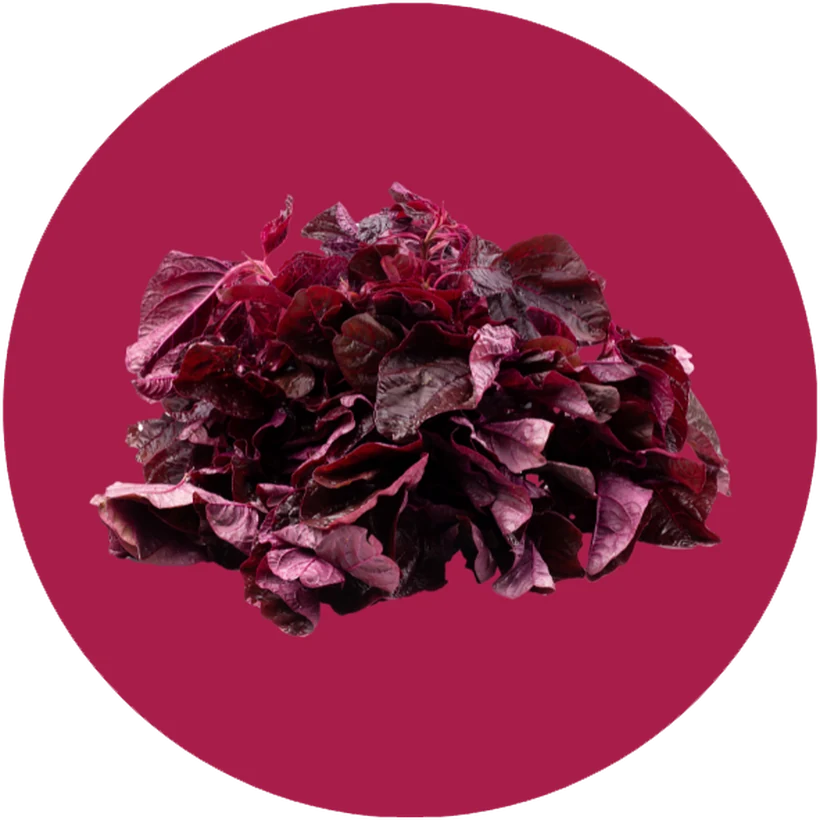
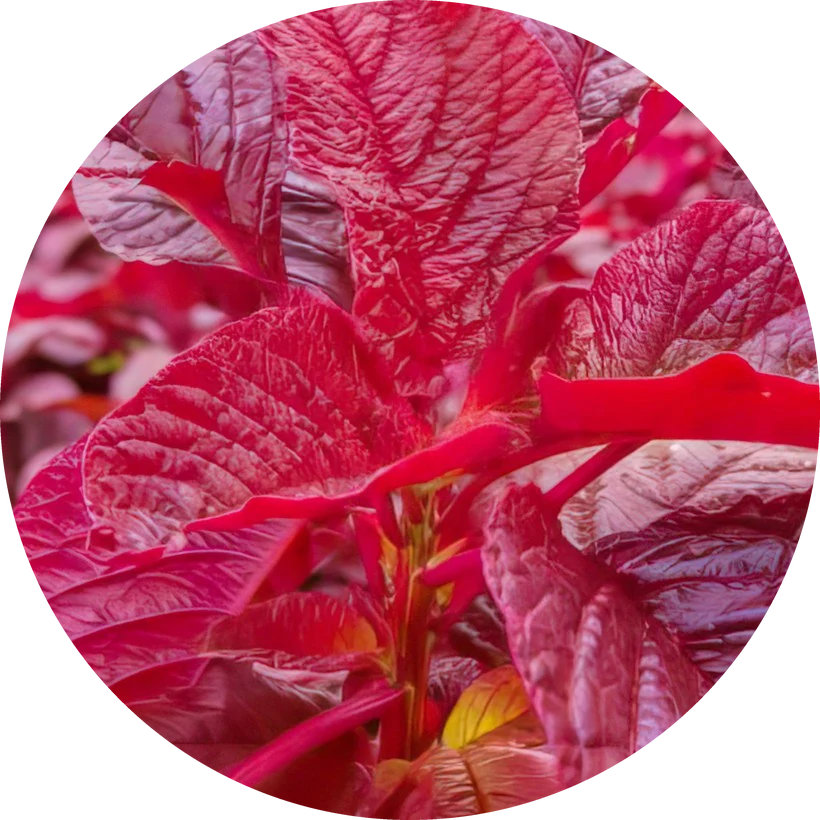
Add files via upload

diff --git a/index.html b/index.html
@@ -177,7 +177,7 @@ section[id],div[id="about"],#honiblog-rachael{scroll-margin-top:160px}
 @keyframes tsE3{0%,100%{transform:translate(-4%,0) rotate(2deg) scaleY(.9)}50%{transform:translate(5%,-6%) rotate(-4deg) scaleY(1.2)}}
 @media (max-width:1000px){.taste-silk i{filter:blur(22px)}}
 @media (prefers-reduced-motion:reduce){.taste-silk i{animation:none}}
-#livaux,#cgp,#feiolix,#oxystorm{scroll-margin-top:calc(70px - clamp(80px,11vw,152px))}
+#livaux,#cgp,#feiolix,#oxystorm,#vasodrive{scroll-margin-top:calc(70px - clamp(80px,11vw,152px))}
 #pack{scroll-margin-top:calc(81px - clamp(80px,11vw,152px))} /* 13 / Format: same, 7px tighter */
 
 /* ---------- nav ---------- */
@@ -1285,6 +1285,16 @@ footer .brand{font-size:15px;letter-spacing:.42em}
   border-left:2px solid var(--gold);border-radius:4px;
   padding:clamp(32px,5vw,64px) clamp(26px,5vw,72px);max-width:920px;margin:0 auto}
 
+/* (user request) VasoDrive-AP section: plain white background, photo from the ingredient scroller beside the copy. */
+#vasodrive{background:#fff}
+.vaso-box{display:grid;grid-template-columns:minmax(0,1.15fr) minmax(0,1fr);gap:clamp(24px,3vw,44px);align-items:center;max-width:1260px;margin:0 auto;padding:clamp(8px,2vw,24px) 0}
+.vaso-photo{margin:0}
+.vaso-photo img{display:block;width:100%;height:auto}
+.vaso-copy .lede{max-width:60ch}
+.vaso-lactose{margin-top:26px;padding:18px 22px;border-left:2px solid var(--gold);background:rgba(0,0,0,.03);border-radius:4px;font-size:15px;line-height:1.65}
+.vaso-allergy{display:block;margin-top:10px;font-size:13.5px;line-height:1.6;opacity:.85}
+.vaso-lactose b{display:block;margin-bottom:4px;letter-spacing:.08em;text-transform:uppercase;font-size:11px}
+@media(max-width:800px){.vaso-box{grid-template-columns:1fr}.vaso-photo{max-width:100%;margin:0 auto}}
 /* (user request) cGP-Pro section: full-bleed blackcurrant backdrop, same treatment as #livaux. */
 #cgp{background-image:url("cgp_bg.jpg");background-size:cover;background-position:center}
 @media(max-width:1000px){
@@ -1765,6 +1775,7 @@ footer .brand{font-size:15px;letter-spacing:.42em}
   .pconv-badge{width:8.3rem;height:7.3rem}
   .pconv-title{font-size:.5rem}
   .pconv-desc{font-size:.38rem}
+  .pconv-desc.long{font-size:.33rem}
   .pconv-dose{font-size:.36rem}
   .pconv-tube-wrap{width:min(40rem,85vw)}
 }
@@ -3154,7 +3165,9 @@ footer{background:var(--paper);border-top:1px solid var(--line);padding:70px 0 4
       <a href="#cgp">cGP-Pro</a>
       <a href="#feiolix">Feiolix</a>
       <a href="#oxystorm">OxyStorm</a>
+      <a href="#vasodrive">VasoDrive-AP</a>
       <a href="#pomma">Pomma+</a>
+      <a href="#eriomin">Eriomin Lemon</a>
       <a href="#mitoq">Ubiquinol</a>
       <a href="#nitric-oxide">Nitric Oxide</a>
     </div>
@@ -3177,6 +3190,7 @@ footer{background:var(--paper);border-top:1px solid var(--line);padding:70px 0 4
       <a href="#glp1">Natural GLP-1</a>
       <a href="#triad">Four Systems</a>
       <a href="#taste">Taste</a>
+      <a href="#pack">Format</a>
       <a href="#rita">Rita Rocks</a>
       <a href="#lemon">Lemonwater?</a>
       <a href="#honiblogtop">HoniBlog</a>
@@ -3359,7 +3373,7 @@ footer{background:var(--paper);border-top:1px solid var(--line);padding:70px 0 4
           <div class="ishot ishot-feijoa"><figure><picture class="ishot-pic"><source media="(max-width:1000px)" srcset="feijoa-lite.webp"><img width="820" height="820" src="feijoa.webp" alt="Feiolix feijoa" loading="lazy"></picture><figcaption class="icap"><b>Feiolix<sup class="rn">&reg;</sup> Feijoa</b><s>600 mg NZ</s><u class="ifn">GLP-1 SUPPORT</u><i>Feijoa (Pineapple Guava) is a delicious fruit with cult status in New Zealand. Its abscisic acid acts on the L-cells in your gut, shown in lab and animal models to raise GLP-1. Its fibre ferments into propionate, which prompts the same release by a second route. Both aim at your own GLP-1, not a synthetic analogue. Your own GLP-1 slows gastric emptying and supports steadier glucose handling. Two routes, <a href="#glp1" style="color:inherit;text-decoration:underline">see how</a>.</i></figcaption></figure></div>
           <div class="ishot"><figure><picture class="ishot-pic"><source media="(max-width:1000px)" srcset="nmn-lite.webp"><img width="820" height="820" src="nmn.webp" alt="Kaneka Ubiquinol" loading="lazy"></picture><figcaption class="icap"><b>Kaneka Ubiquinol<sup class="rn">&reg;</sup></b><s>100 mg</s><u class="ifn">MITOCHONDRIAL SUPPORT</u><i>Ubiquinol is the reduced form of coenzyme Q10, a compound found in the mitochondrial membrane where cells make energy. Supplied by Kaneka as a 30% ubiquinol powder, microencapsulated for air stability.</i></figcaption></figure></div>
           <div class="ishot ishot-pomma"><figure><picture class="ishot-pic"><source media="(max-width:1000px)" srcset="pomma_pomegranate-lite.webp"><img width="820" height="820" src="pomma_pomegranate.webp" alt="Pomma+ whole-fruit pomegranate extract" loading="lazy"></picture><figcaption class="icap"><b>Pomma+<sup class="rn">&reg;</sup> Whole-Fruit Pomegranate</b><s>300 mg</s><u class="ifn">ANTIOXIDANT SUPPORT</u><i>An upcycled, whole-fruit extract carrying pomegranate's punicalagins and ellagitannins, the polyphenols behind its antioxidant reputation.</i></figcaption></figure></div>
-          <div class="ishot"><figure><picture class="ishot-pic"><source media="(max-width:1000px)" srcset="oxystorm-lite.webp"><img width="820" height="820" src="oxystorm.webp" alt="OxyStorm red spinach leaves" loading="lazy"></picture><figcaption class="icap"><b>OxyStorm<sup class="rn">&reg;</sup> Red Spinach</b><s>600 mg</s><u class="ifn">NITRIC OXIDE SUPPORT</u><i>A leaf extract from red spinach (Amaranthus dubius), standardised by the supplier to at least 9% nitrate. The body converts dietary nitrate to nitrite and then to nitric oxide.</i></figcaption></figure></div>
+          <div class="ishot"><figure><picture class="ishot-pic"><source media="(max-width:1000px)" srcset="oxystorm-lite.webp"><img width="820" height="820" src="oxystorm.webp" alt="OxyStorm red spinach leaves" loading="lazy"></picture><figcaption class="icap"><b>OxyStorm<sup class="rn">&reg;</sup> Red Spinach</b><s>600 mg</s><u class="ifn">NITRIC OXIDE SUPPORT</u><i>High potency red spinach extract, standardised by the producer to 9%+ nitrate. <br>Beetroot powder, in comparison, is typically 0.6 to 1.6%. <br>Nitrate in, nitric oxide out.</i></figcaption></figure></div>
 <div class="ishot"><figure><picture class="ishot-pic"><source media="(max-width:1000px)" srcset="eriomin_lemon-lite.webp"><img width="820" height="820" src="eriomin_lemon.webp" alt="Eriomin lemon flavonoid extract" loading="lazy"></picture><figcaption class="icap"><b>Eriomin<sup class="rn">&reg;</sup> Lemon Flavonoid</b><s>200 mg</s><u class="ifn">GLP-1 SUPPORT</u><i>A standardised eriocitrin extract with its own pathway to your own GLP-1, <a href="#glp1" style="color:inherit;text-decoration:underline">see how</a>.</i></figcaption></figure></div>
           <div class="ishot"><figure><picture class="ishot-pic"><source media="(max-width:1000px)" srcset="cGP-Pro_blackcurrant-lite.webp"><img width="820" height="820" src="cGP-Pro_blackcurrant.webp" alt="Braincurrant New Zealand blackcurrant" loading="lazy"></picture><figcaption class="icap"><b>Braincurrant<sup class="rn">&reg;</sup></b><s>300 mg NZ</s><u class="ifn">FOCUS &amp; MOOD</u><i>A freeze-dried whole New Zealand blackcurrant powder from Anagenix, naturally rich in anthocyanins. Natural support for focus, memory and mood balance.</i></figcaption></figure></div>
           <div class="ishot"><figure><picture class="ishot-pic"><source media="(max-width:1000px)" srcset="nmn-lite.webp"><img width="820" height="820" src="nmn.webp" alt="L-Theanine powder" loading="lazy"></picture><figcaption class="icap"><b>AlphaWave<sup class="rn">&reg;</sup> L-Theanine</b><s>450 mg</s><u class="ifn">CALM FOCUS</u><i>Upregulates alpha-wave neural activity and stimulates GABA, so the result reads as calm focus rather than agitation. A 28-day placebo-controlled trial of AlphaWave L-Theanine found lower perceived stress and improved sleep quality and attention.</i></figcaption></figure></div>
@@ -3982,8 +3996,9 @@ footer{background:var(--paper);border-top:1px solid var(--line);padding:70px 0 4
         <span class="no-route sig">Nitrate route</span>
         <h4>OxyStorm<sup class="rn">&reg;</sup> Red Spinach</h4>
         <b class="no-dose">600 mg</b>
-        <p>Red spinach leaf extract standardised by the supplier to at least 9% nitrate. The body converts dietary nitrate to nitrite and then to nitric oxide.</p>
+        <p>Red spinach leaf extract standardised by the producer Arjuna Natural to at least 9% nitrate. The body converts dietary nitrate to nitrite and then to nitric oxide.</p>
         <a class="cite" href="https://doi.org/10.3390/sports5040080" target="_blank" rel="noopener noreferrer">Moore 2017 <span>Sports &middot; RCT &nearr;</span></a>
+        <a class="cite sup" href="https://arjunanatural.com/oxystorm/" target="_blank" rel="noopener noreferrer" style="margin-top:calc(var(--cw)*.012)">Ingredient science <span>Arjuna Natural &nearr;</span></a>
       </div>
     </div>
 
@@ -4453,6 +4468,29 @@ footer{background:var(--paper);border-top:1px solid var(--line);padding:70px 0 4
   </div>
 </section>
 
+<!-- ================= VASODRIVE-AP AMEALPEPTIDE ================= -->
+<section class="sec" id="vasodrive">
+  <div class="wrap">
+    <div class="vaso-box rv">
+      <figure class="vaso-photo"><img width="524" height="604" src="vasodrive_ap_crop.webp" alt="VasoDrive-AP milk-derived tripeptide" loading="lazy"></figure>
+      <div class="vaso-copy">
+        <p class="eyebrow dim">09e / VasoDrive-AP<sup class="rn">&reg;</sup> AmealPeptide<sup class="rn">&reg;</sup></p>
+        <h2 class="serif">VasoDrive-AP<sup class="rn">&reg;</sup>: <em>Two milk tripeptides for arterial elasticity.</em></h2>
+        <p class="lede">HONI<i>ORA</i> carries 508 mg of VasoDrive-AP<sup class="rn">&reg;</sup> (AmealPeptide<sup class="rn">&reg;</sup>) per serving. It is derived from milk protein through a proprietary enzymatic process. It supplies the lactotripeptides VPP (valyl-prolyl-proline) and IPP (isoleucyl-prolyl-proline), which occur in very small amounts in casein. Made in Waikato, NZ by Tatua Dairy Co-op.<br><a class="cite" href="https://www.maypro.com/products/vasodrive-ap" target="_blank" rel="noopener noreferrer">Ingredient science <span>Maypro &nearr;</span></a><a class="cite sup" href="https://pubmed.ncbi.nlm.nih.gov/23566677/" target="_blank" rel="noopener noreferrer">Supporting research <span>PMID 23566677 &nearr;</span></a></p>
+
+        <ul class="prob-list">
+          <li><span class="x">01</span><div><strong>Works on the enzyme route.</strong> <span class="d">VasoDrive-AP supports arterial elasticity by inhibiting an enzyme (ACE) that leads to the constriction of blood vessels.*</span></div></li>
+          <li><span class="x">02</span><div><strong>Absorbed intact.</strong> <span class="d">The supplier reports that the precise configuration of these peptides protects them from breakdown in the human digestive system, so they are absorbed intact.*</span></div></li>
+          <li><span class="x">03</span><div><strong>30 or more published studies.</strong> <span class="d">That includes over a dozen double-blind, placebo-controlled human trials. The supplier reports an effect within 3 to 4 weeks in multiple human studies.*</span></div></li>
+        </ul>
+
+        <p class="vaso-lactose"><b>Lactose</b>While it is made from milk protein, the lactose levels in VasoDrive-AP (AmealPeptide) are undetectable (under .05%), so it is considered safe for those with lactose intolerance.*<span class="vaso-allergy">Lactose intolerance and milk allergy are different conditions. Lactose is a milk sugar. An allergy is a reaction to milk protein, and VasoDrive-AP is made from casein, a milk protein. It is not suitable for anyone with a milk or dairy allergy.</span></p>
+        <p class="small" style="margin-top:22px;max-width:78ch">*These statements have not been evaluated by the Food and Drug Administration. This product is not intended to diagnose, treat, cure, or prevent any disease. Figures are supplier statements from Maypro, see the <a href="#evidence-note" style="color:inherit;text-decoration:underline">evidence note</a>. No cited trial is of the finished HONI<i>ORA</i> tablet. VasoDrive-AP and AmealPeptide are trade marks of their owner.</p>
+      </div>
+    </div>
+  </div>
+</section>
+
 <!-- ================= POMMA+ ================= -->
 <section class="sec" id="pomma">
   <div class="wrap">
@@ -4581,7 +4619,7 @@ footer{background:var(--paper);border-top:1px solid var(--line);padding:70px 0 4
     </div>
 
[1 lines of base64/hex data omitted]
-    <div class="lemonplus rv">
+    <div class="lemonplus rv" id="eriomin">
       <p class="lp-kick">PLUS the power of ...</p>
       <h3 class="serif">Eriomin<sup class="rn">&reg;</sup> <em>Lemon Flavonoid Extract</em></h3>
       <p class="lp-meta"><span>Fytexia / Glycemic Support</span><span>Metabolic &middot; GLP-1 &amp; glycemic support</span><span class="lp-dose">200 mg</span></p>
@@ -4817,7 +4855,7 @@ footer{background:var(--paper);border-top:1px solid var(--line);padding:70px 0 4
             <img class="pconv-badge-photo" src="nav-hex-tray.png" alt="" loading="lazy">
             <div class="pconv-text">
               <div class="pconv-title">OxyStorm<sup class="rn">&reg;</sup> Red Spinach</div>
-              <div class="pconv-desc">Plant nitrate · Nitric oxide</div><div class="pconv-dose">600 mg</div>
+              <div class="pconv-desc long">High potency red spinach extract, standardised by the producer to 9%+ nitrate. <br>Beetroot powder, in comparison, is typically 0.6 to 1.6%. <br>Nitrate in, nitric oxide out.</div><div class="pconv-dose">600 mg</div>
             </div>
           </div>
         </div>
@@ -5847,9 +5885,16 @@ footer{background:var(--paper);border-top:1px solid var(--line);padding:70px 0 4
           var npad = parseFloat(getComputedStyle(el).paddingTop) || 0;
           return Math.max(0, el.getBoundingClientRect().top + window.scrollY + npad - (hdr.getBoundingClientRect().bottom + 12));
         }
-        if (hash === '#mitoq' || hash === '#livaux' || hash === '#cgp' || hash === '#feiolix' || hash === '#oxystorm' || hash === '#pomma'){
+        if (hash === '#mitoq' || hash === '#livaux' || hash === '#cgp' || hash === '#feiolix' || hash === '#oxystorm' || hash === '#vasodrive' || hash === '#pomma'){
           var mpad = parseFloat(getComputedStyle(el).paddingTop) || 0;
           return Math.max(0, el.getBoundingClientRect().top + window.scrollY + mpad - (hdr.getBoundingClientRect().bottom + 1));
+        }
+        /* #eriomin: the PLUS the power of kicker sits ~24px under the nav bar. */
+        if (hash === '#eriomin'){
+          /* the block is a .rv reveal with a transient translateY, so take it out of the measurement */
+          var ety = 0;
+          try { var etf = getComputedStyle(el).transform; ety = (etf && etf !== 'none') ? new DOMMatrix(etf).m42 : 0; } catch(_){ ety = 0; }
+          return Math.max(0, el.getBoundingClientRect().top - ety + window.scrollY - (hdr.getBoundingClientRect().bottom + 24));
         }
         /* #honeytop: the honeycomb hero photo starts flush under the nav bar. */
         if (hash === '#honeytop'){
